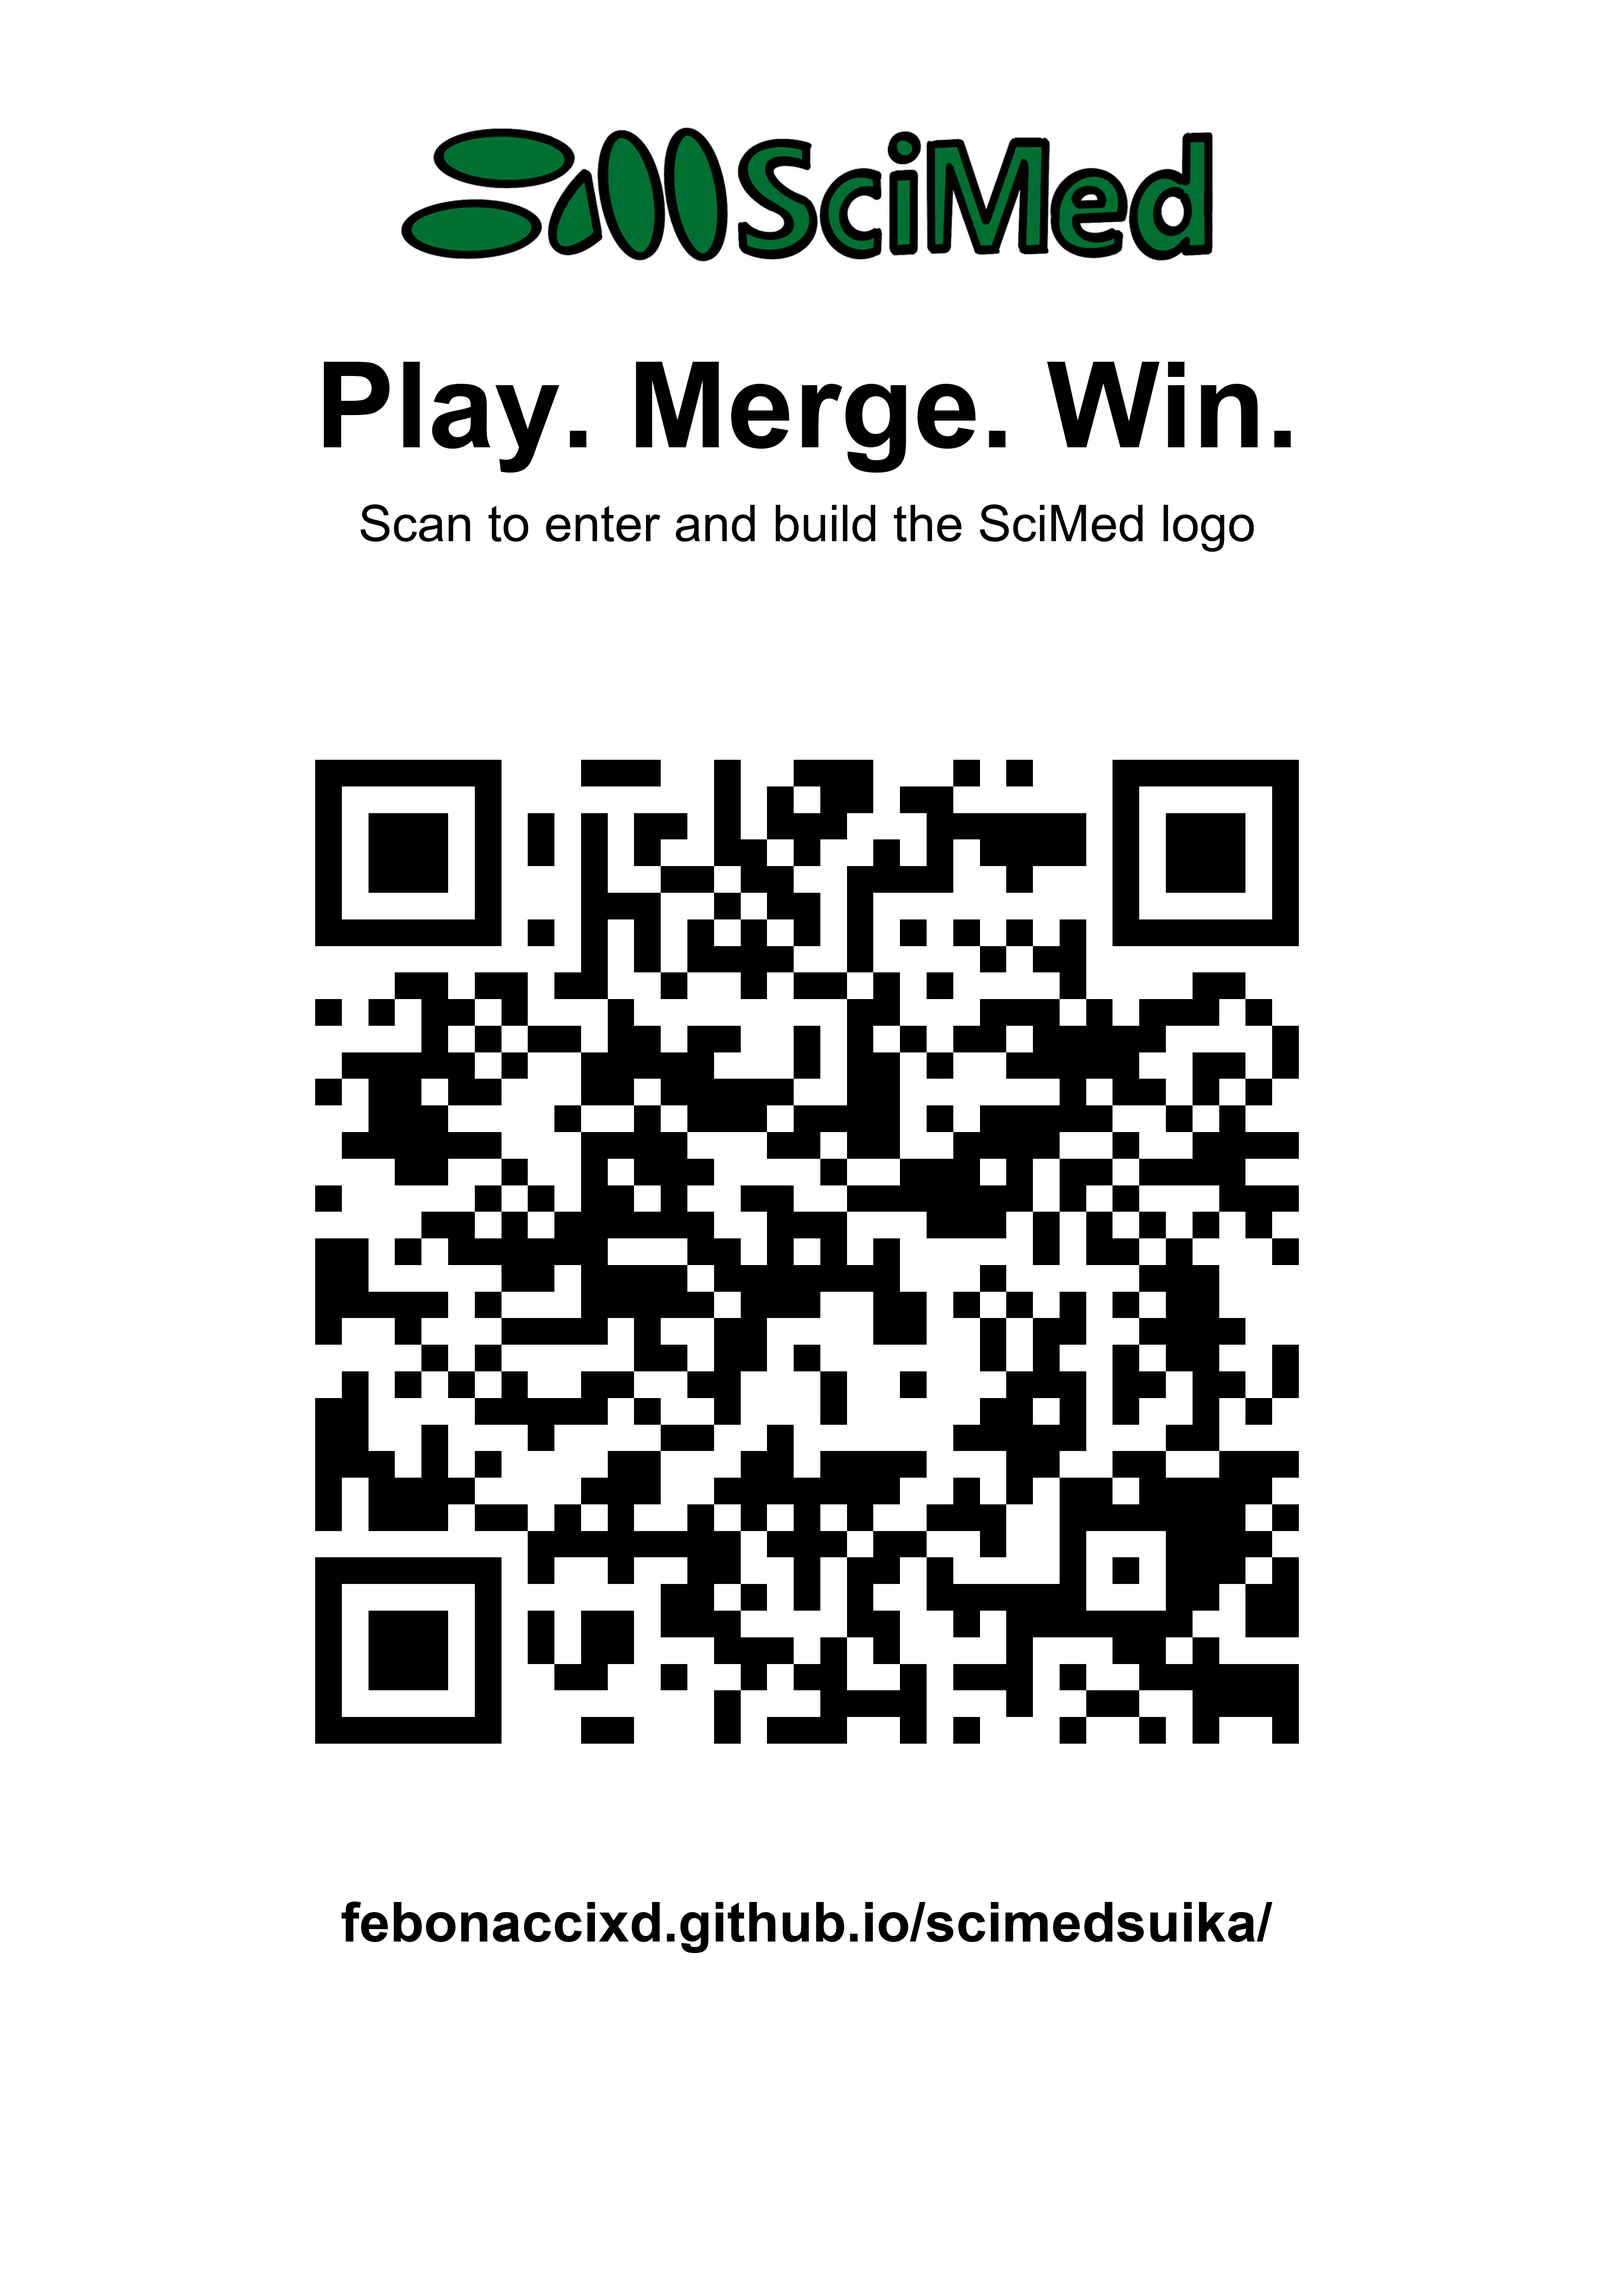
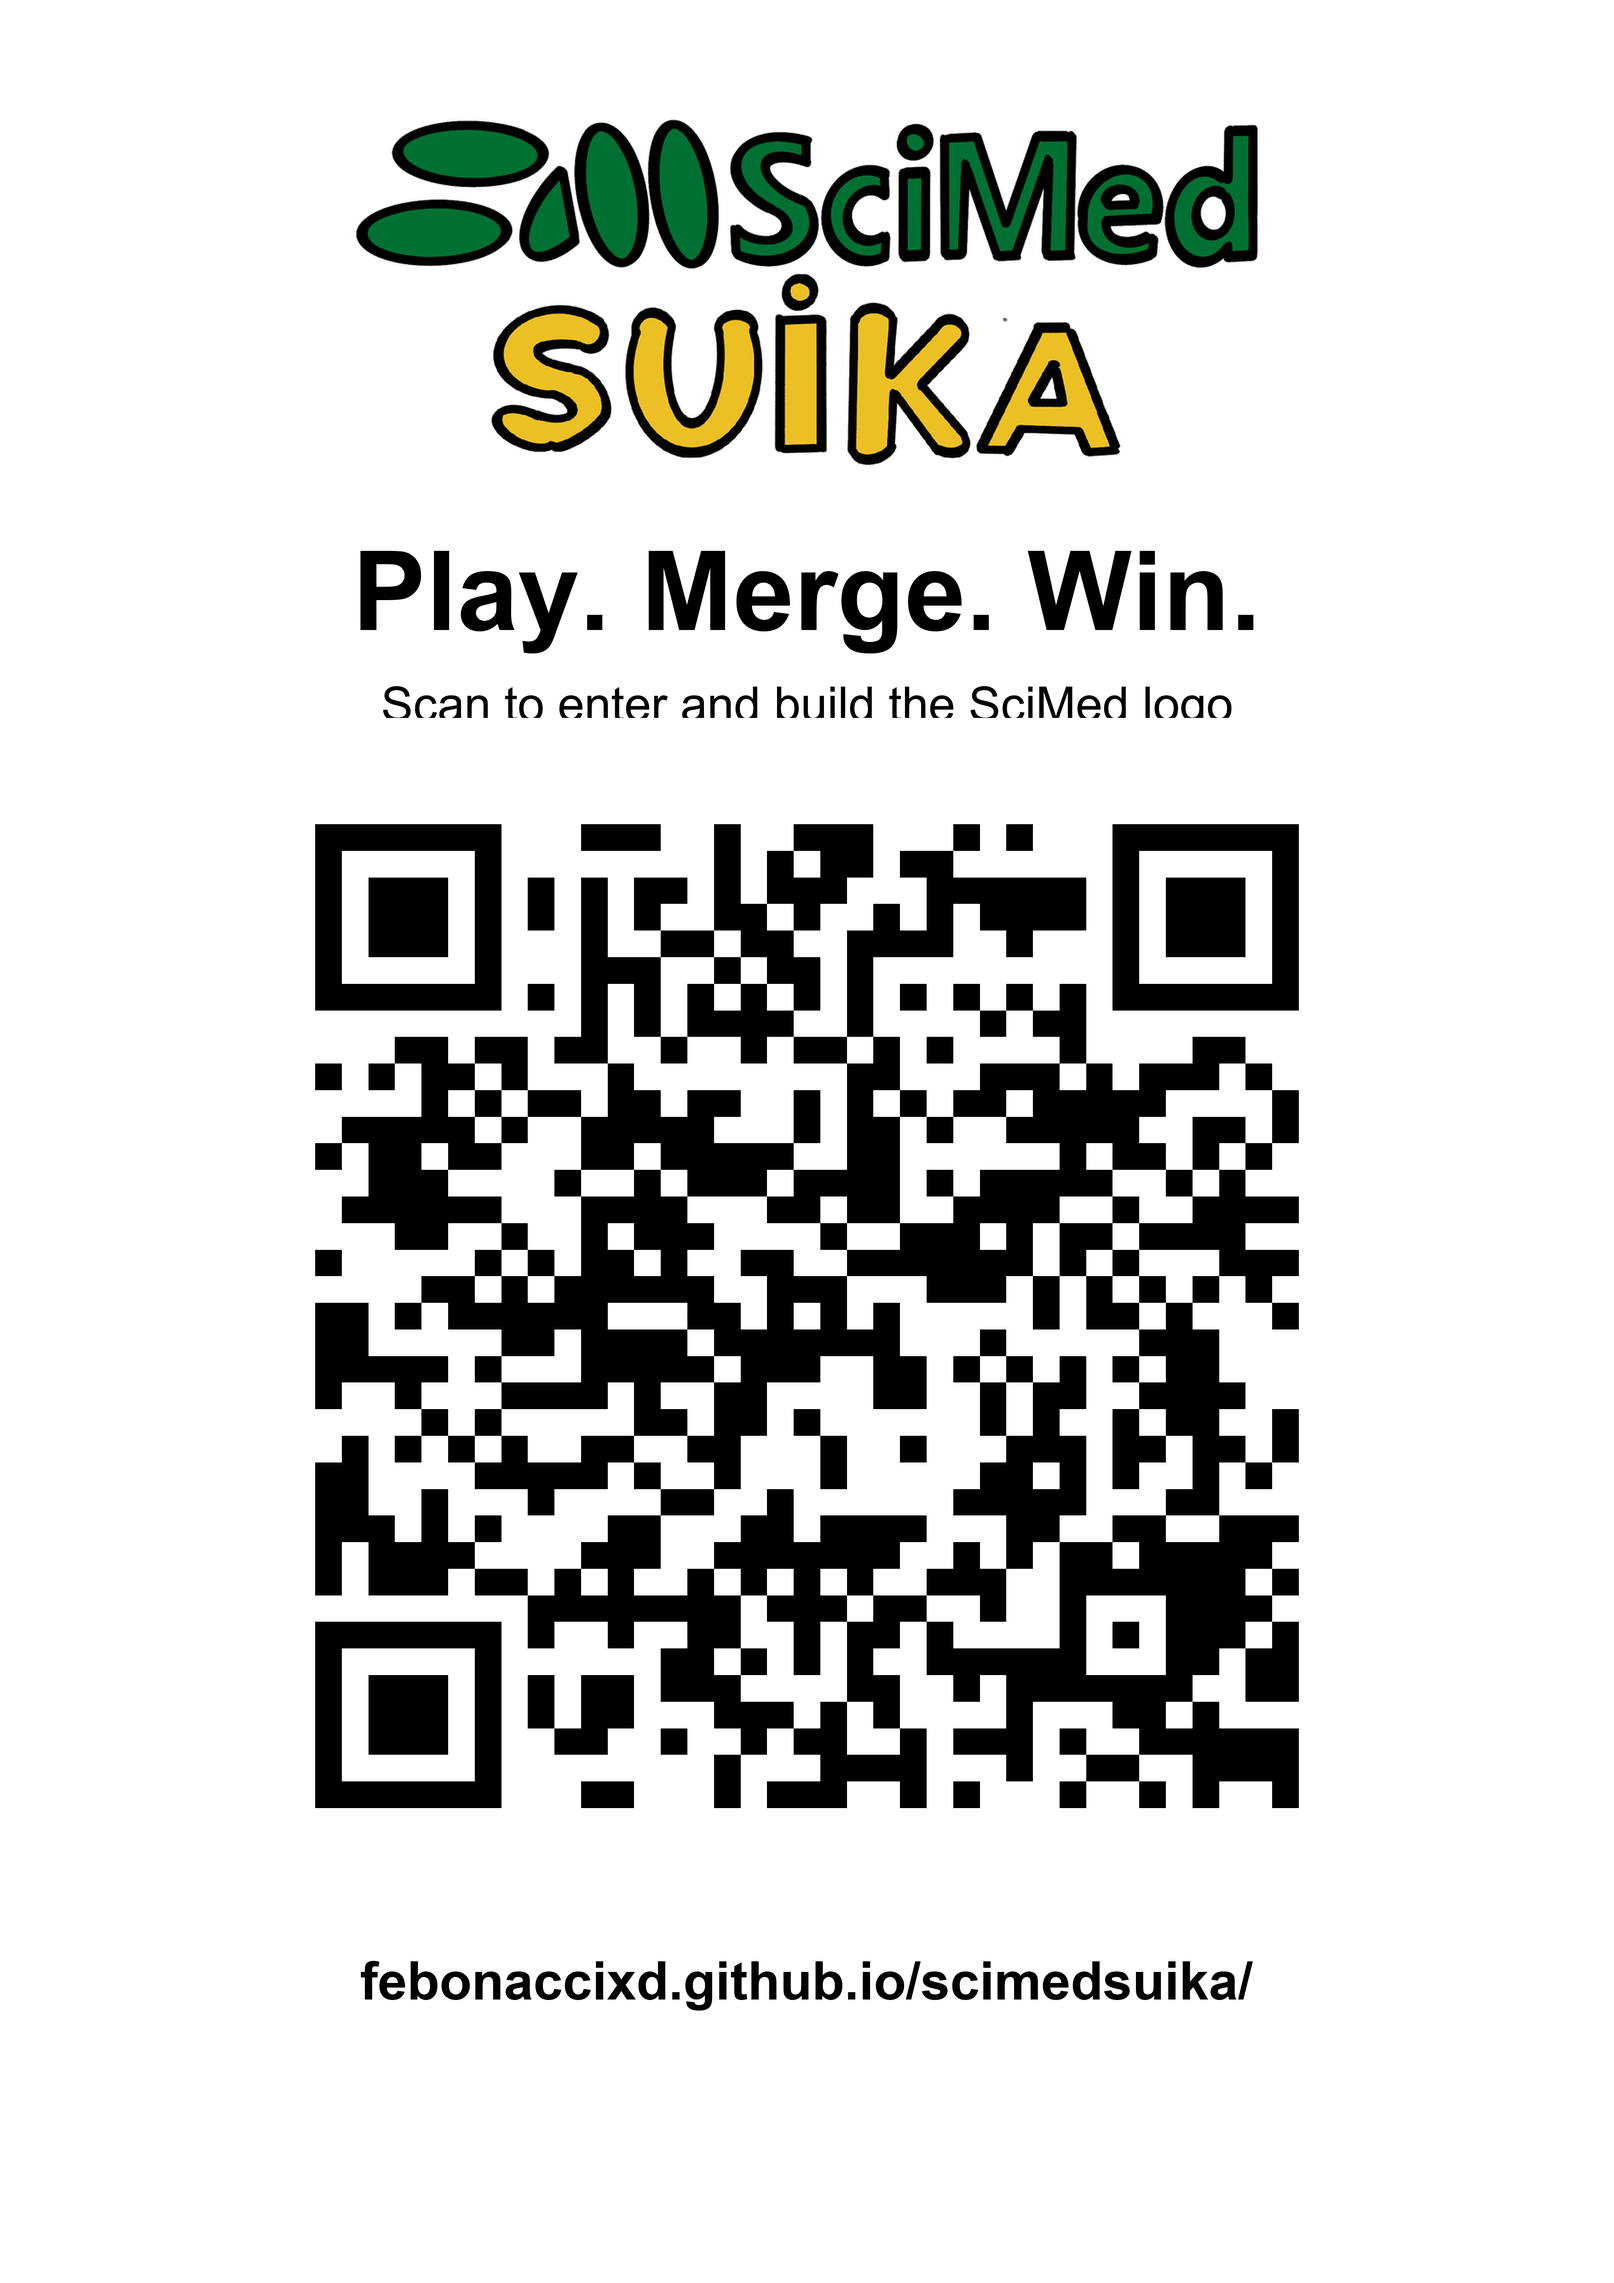
7-tier ladder with final art, SciMed Suika game branding
- ladder: Falcon tube -> Spor-Klenz -> mop -> plate reader -> bioreactor
  -> ULT freezer -> SciMed logo win; radii re-spaced (ratio ~1.45),
  spawns tiers 1-3 (45/35/20), user score table 28..151
- SUIKA logo on game intro, post-game, booth masthead (white plate), poster
- server TIER_NAMES updated (deployed v4)

Claude-Session: https://claude.ai/code/session_01AS6iMy8gHBx8g5eEyKW7Dn

Changed region(s): [[0.1864, 0.0312, 0.8079, 0.8748]]

diff --git a/config.js b/config.js
@@ -108,27 +108,28 @@ const CONFIG = {
       density: 0.001         // constant across tiers: bigger = heavier by area
     },
 
-    /* tier ladder: radius (logical px), product, brand */
+    /* tier ladder: radius (logical px), product, brand.
+       7 tiers over the same container: ratio steepened to ~1.45 (from the
+       9-tier 1.32) so the win still takes 5-8 minutes, per the doc's logic. */
     tiers: [
-      { radius: 18,  name: "Bowie-Dick test pack", brand: "STERIS" },
-      { radius: 24,  name: "Falcon tube",          brand: "Corning" },
-      { radius: 31,  name: "Disinfectant bottle",  brand: "STERIS" },
-      { radius: 41,  name: "Cleanroom mop head",   brand: "Hydroflex" },
-      { radius: 55,  name: "Plate reader",         brand: "Tecan" },
-      { radius: 72,  name: "Fluent workstation",   brand: "Tecan" },
-      { radius: 96,  name: "Bioreactor",           brand: "Infors" },
-      { radius: 127, name: "ULT freezer",          brand: "PHCbi" },
-      { radius: 168, name: "SciMed logo",          brand: "SciMed" }
+      { radius: 18,  name: "Falcon tube",    brand: "Corning" },
+      { radius: 26,  name: "Spor-Klenz RTU", brand: "STERIS" },
+      { radius: 38,  name: "Cleanroom mop",  brand: "Hydroflex" },
+      { radius: 55,  name: "Plate reader",   brand: "Tecan" },
+      { radius: 80,  name: "Bioreactor",     brand: "Infors" },
+      { radius: 116, name: "ULT freezer",    brand: "PHCbi" },
+      { radius: 168, name: "SciMed logo",    brand: "SciMed" }
     ],
-    // artwork swap path: /assets/tier-01.png .. /assets/tier-09.png
+    // artwork swap path: /assets/tier-01.png .. /assets/tier-07.png
     tierImagePath: function (i) { return "assets/tier-0" + (i + 1) + ".png"; },
 
-    /* drops */
-    spawnWeights: [40, 30, 20, 10],  // tiers 1-4 only, never 5+
+    /* drops: tiers 1-3 only — a plate reader is built, never dropped */
+    spawnWeights: [45, 35, 20],
     dropCooldownMs: 350,
 
-    /* scoring: triangular progression per merge INTO tier (index 1..8) */
-    mergeScores: [0, 3, 6, 10, 15, 21, 28, 36, 45],
+    /* scoring: per-merge score by the tier the merge CREATES (user-set).
+       Index 0 (T1) is unreachable — nothing merges into tier 1. */
+    mergeScores: [20, 28, 39, 55, 77, 108, 151],
     // cascade bonus: merge score x chain position since last drop, capped
     cascadeCapX: 5,
 

diff --git a/index.html b/index.html
@@ -135,10 +135,10 @@
 
   <!-- Screen 6: game intro. Rules in one line, nobody reads more. -->
   <section class="screen" id="screen-game-intro" hidden>
-    <h1>Merge your way to the logo</h1>
+    <img class="brand-logo suika-logo" src="assets/logo-suika.png" alt="SciMed Suika">
     <p><strong>Two of the same thing touch, they become the next thing up.</strong></p>
     <p class="muted">Tap anywhere across the top to drop. Keep the pile below the line.</p>
-    <p class="muted">Nine tiers. The ninth is the SciMed logo — fastest to it wins the show.</p>
+    <p class="muted">Seven tiers. The seventh is the SciMed logo — fastest to it wins the show.</p>
     <div class="action-area">
       <button class="btn btn-primary" id="btn-start-run" type="button">Drop the first one</button>
       <p class="muted center">Three attempts. Your best one counts.</p>
@@ -181,7 +181,7 @@
 
   <!-- Screen 12: post-game ladder, the rep opener. -->
   <section class="screen" id="screen-postgame" hidden>
-    <img class="brand-logo" src="assets/logo-scimed.png" alt="SciMed">
+    <img class="brand-logo suika-logo" src="assets/logo-suika.png" alt="SciMed Suika">
     <h1>Your result</h1>
     <p>Best score: <strong id="pg-score"></strong><span id="pg-rank"></span></p>
     <button class="btn btn-primary" id="btn-show-leaderboard" type="button" style="margin-bottom: var(--space-4);">See the leaderboard</button>
@@ -197,7 +197,7 @@
     <p class="muted" id="products-done" hidden>Saved — thank you.</p>
     <div class="action-area">
       <div class="show-team">
-        <img class="tier-disc" data-tier="9" id="show-team-disc" src="assets/tier-09.png" alt="">
+        <img class="tier-disc" data-tier="9" id="show-team-disc" src="assets/tier-07.png" alt="">
         <div>
           <span class="show-team-kicker">Show this screen to our team</span>
           Winners get the prize at the counter. Bring your rank.

diff --git a/game.js b/game.js
@@ -280,11 +280,11 @@
       el("end-title").textContent = won ? "You built the whole company" : "Pile hit the line";
       el("screen-game-end").classList.toggle("won", won);
       el("end-score").textContent = String(score);
-      var t9 = G.tiers.length - 1;
+      var top = G.tiers.length - 1;
       el("end-tier").textContent = won
-        ? "Tier 9 · the SciMed logo"
+        ? "Tier " + G.tiers.length + " · the SciMed logo"
         : "Tier " + (highestTier + 1) + " · " + G.tiers[highestTier].name;
-      el("end-disc").src = G.tierImagePath(won ? t9 : highestTier);
+      el("end-disc").src = G.tierImagePath(won ? top : highestTier);
       el("end-time").textContent = fmtTime(runMs);
       isFinal = attemptsUsed >= G.maxAttempts;
       el("end-attempts").textContent = isFinal
@@ -621,7 +621,7 @@
     el("pg-score").textContent = String(bestScore);
     el("pg-tier-img").src = G.tierImagePath(sessionBestTier);
     el("pg-tier-name").textContent = everWon
-      ? "Tier 9 · the logo"
+      ? "Tier " + G.tiers.length + " · the logo"
       : "Tier " + (sessionBestTier + 1) + " · " + G.tiers[sessionBestTier].name;
     el("pg-reached-card").classList.toggle("pg-won", everWon);
     // ladder listed summit-first, reached tiers at full strength
@@ -653,7 +653,7 @@
     }
     var list = el("products-list");
     if (!list.children.length) {
-      G.tiers.slice(0, 8).forEach(function (t) {
+      G.tiers.slice(0, G.tiers.length - 1).forEach(function (t) {
         var label = document.createElement("label");
         var cb = document.createElement("input");
         cb.type = "checkbox";

diff --git a/leaderboard.html b/leaderboard.html
@@ -17,8 +17,8 @@
 
   <div class="booth-masthead">
     <div>
-      <h1>Race to the SciMed logo</h1>
-      <div class="booth-hook">Merge lab consumables up to capital equipment. Fastest to the logo wins.</div>
+      <img class="booth-suika-logo" src="assets/logo-suika.png" alt="SciMed Suika">
+      <div class="booth-hook">Merge lab consumables up to capital equipment. Fastest wins.</div>
     </div>
     <div class="booth-scan">
       <div>
@@ -40,7 +40,7 @@
       </div>
       <ol class="booth-winners" id="booth-winners"></ol>
       <div class="booth-empty-winners" id="booth-no-winners" hidden>
-        <span class="tier-disc" data-tier="9"><img src="assets/tier-09.png" alt=""></span>
+        <span class="tier-disc" data-tier="9"><img src="assets/tier-07.png" alt=""></span>
         <div>
           <div class="booth-empty-title">The logo is still up for grabs.</div>
           <div class="booth-empty-sub">Nobody has merged their way to tier 9 yet. Scan, play, be the first name on this screen.</div>

diff --git a/styles.css b/styles.css
@@ -135,12 +135,24 @@ p { margin-bottom: var(--space-3); }
 .muted { color: var(--color-text-muted); font-size: var(--text-s); }
 .center { text-align: center; margin-top: var(--space-3); }
 
-/* brand logo slots — assets/logo-scimed.png */
+/* brand logo slots — assets/logo-scimed.png (capture layer),
+   assets/logo-suika.png (game layer) */
 .brand-logo {
   display: block;
   height: 40px;
   width: auto;
   margin-bottom: var(--space-4);
+}
+.suika-logo { height: 64px; }
+/* white plate keeps the green-on-green logo legible on the masthead */
+.booth-suika-logo {
+  display: block;
+  height: 96px;
+  width: auto;
+  background: var(--color-surface);
+  border-radius: 12px;
+  padding: 8px 18px;
+  margin-bottom: 10px;
 }
 
 /* consent line — sits above the fields, never below */
